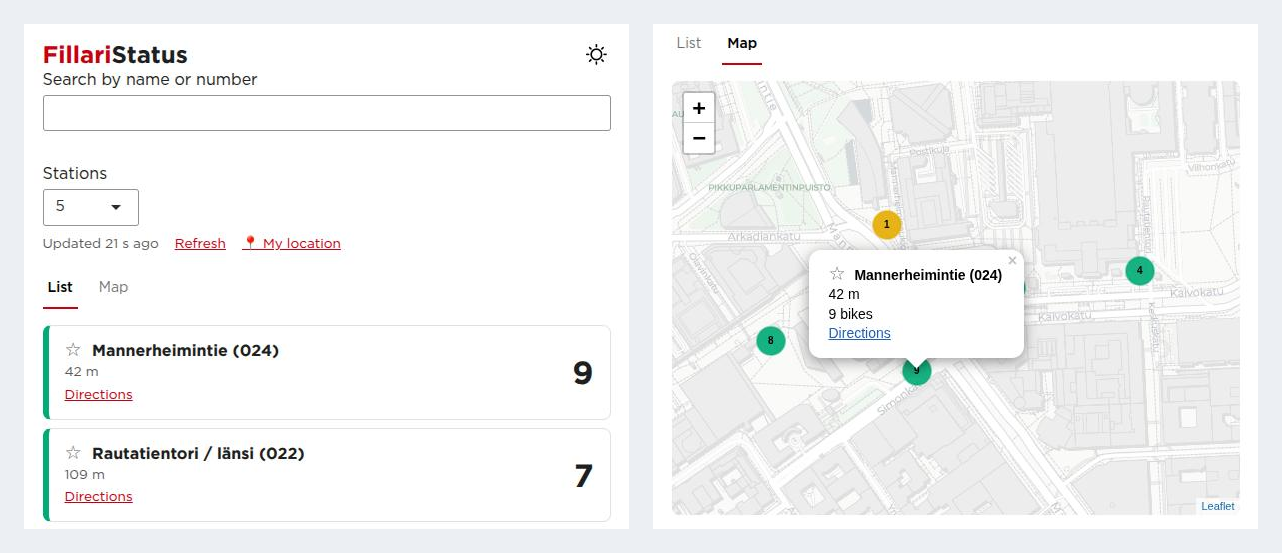
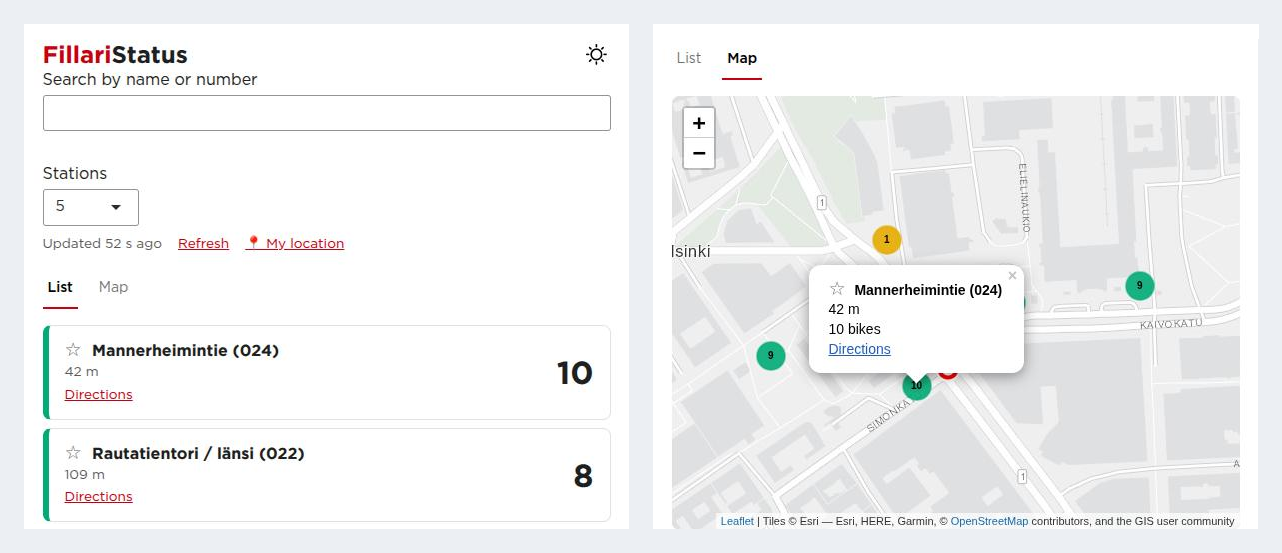
Docs and screenshots: Esri tiles, no Carto key
README, DEPLOY.md (new "Map tiles" section: attribution, the zoom-16 cap,
no SLA, how to switch provider, why Carto was dropped), CLAUDE.md, the plan
and the project page now describe the keyless Esri basemap. Screenshots are
retaken with the new tiles at the Rautatientori position (the location
marker was verified to be exactly 60.1699, 24.9384) and the raw captures
deleted.

diff --git a/docs/index.html b/docs/index.html
@@ -429,7 +429,7 @@
     <section class="privacy">
         <div class="container">
             <h2>Data and Privacy</h2>
-            <p>Station data &copy; <a href="https://www.hsl.fi/">HSL</a> / <a href="https://digitransit.fi/">Digitransit</a>, licensed <a href="https://creativecommons.org/licenses/by/4.0/">CC BY 4.0</a>. Map tiles &copy; <a href="https://www.openstreetmap.org/copyright">OpenStreetMap</a> contributors &copy; <a href="https://carto.com/attributions">CARTO</a>.</p>
+            <p>Station data &copy; <a href="https://www.hsl.fi/">HSL</a> / <a href="https://digitransit.fi/">Digitransit</a>, licensed <a href="https://creativecommons.org/licenses/by/4.0/">CC BY 4.0</a>. Map tiles &copy; Esri &mdash; Esri, HERE, Garmin, &copy; <a href="https://www.openstreetmap.org/copyright">OpenStreetMap</a> contributors, and the GIS user community.</p>
             <p>There are no accounts and no database. Your location is used only to find nearby stations and is not stored. Favourites stay in your own browser.</p>
         </div>
     </section>

diff --git a/fillaristatus-plan.md b/fillaristatus-plan.md
@@ -22,15 +22,15 @@
 | 6 | Off-season and error states | Done | `72d9c41` |
 | 7 | Docker + Cloud Run deploy | **Done, live** | `d0358e7`, `ca8c2d9`, `40051f3` |
 | 8 | README, CLAUDE.md, screenshot, favicon, MIT licence, redeploy | **Done, live** | `576c627`, `ee53e68` |
-| 9 | Post-launch: GitHub Actions auto-deploy, youcanbeapirate theme, security headers, GitHub hygiene, project page | **Done, live** | `b3adaac`, `2d71b9f`, `634b5cf`, `99f3442`, `0792569`, `092838d` |
+| 9 | Post-launch: GitHub Actions auto-deploy, youcanbeapirate theme, security headers, GitHub hygiene, project page, keyless Esri map tiles (and the missing tile attribution fixed) | **Done, live** | `b3adaac`, `2d71b9f`, `634b5cf`, `99f3442`, `0792569`, `092838d` |
 
 **Deployed:** revision `fillaristatus-app-00005-qp5` serves 100 % of traffic. Deploys are automatic now: a push to `main` that touches `app/**` or the build files runs the GitHub Actions workflow (build, deploy, smoke test).
 
 **Also done:** the FillariStatus card was added to the main site's featured apps (`AnttiRask.github.io`, commit `ad3c4f4`; View App / View Project / View Source all verified, 200).
 
-**Remaining (user):** restrict the Carto tile key to the FillariStatus domain(s) in Carto's dashboard. Everything else open is optional (§13).
+**Remaining (user):** nothing required. The map tiles switched to Esri's keyless World Light/Dark Gray (§6, §8), so there is no Carto key to restrict (the user lost dashboard access after the trial). BiblioStatus still uses the Carto key, which has the same problem; the same switch would fix it. Everything else open is optional (§13).
 
-**Never verified (be honest about these):** phone browsers and Safari/Firefox (only desktop Chrome was driven; the user once reported an intermittent empty map box in "another desktop browser"), behaviour at a real season change (stations are live now), Cloud Run cold-start duration, and Carto's 503 behaviour under bursts.
+**Never verified (be honest about these):** phone browsers and Safari/Firefox (only desktop Chrome was driven; the user once reported an intermittent empty map box in "another desktop browser"), behaviour at a real season change (stations are live now), Cloud Run cold-start duration, and Esri's availability and current terms for the keyless tiles (no SLA; I could not read the terms from here).
 
 ## 1. Why
 
@@ -46,7 +46,7 @@
 - **Bikes only.** Free docks are fetched and parsed (`docks`) but not shown: a bike can be returned to a full station, so the count of bikes is the question.
 - **Search** by name or station number, always available. A non-blank search replaces the nearest list (still sorted by distance from the user, still capped by N); clearing it restores the list. While searching, the map fits the results only, so a far-away match doesn't zoom out to include the user.
 - **Favourites** (per browser, `localStorage`): a favourite inside the N nearest takes one of the N slots; favourites outside it are added on top. Pinned first. Star on list cards and in map popups.
-- **Map tab** (leaflet, Carto tiles): markers coloured by status with the bike count printed on them, popups mirroring the card (with the favourite star), a ring-and-dot "you are here" marker, drawn through `leafletProxy` so pan/zoom survive the refresh. Shows "Loading map…" until drawn.
+- **Map tab** (leaflet, Esri World Light/Dark Gray tiles with a labels layer, no API key): markers coloured by status with the bike count printed on them, popups mirroring the card (with the favourite star), a ring-and-dot "you are here" marker, drawn through `leafletProxy` so pan/zoom survive the refresh. Shows "Loading map…" until drawn.
 - **Auto-refresh** every 60 s plus "Updated 6 min ago"; manual Refresh button (rate-limited).
 - **Light by default** with a dark mode toggle (bslib; it used to follow the OS setting), mobile-first single column, youcanbeapirate brand colours and Gotham font (§6).
 - **States:** off-season ("City bike season is over…", not an error), failed refresh with older data (keeps showing it, warns how old), failed first load (plain message, never raw error text), location denied (notice + search), empty search.
@@ -112,7 +112,7 @@ Browser ──(location, favourites, search, N)──▶ Shiny server (Cloud Run
 - **Never throws:** `fetch_stations_safe()` returns `list(data, stale, error, fetched_at, attempted_at)`. On error it falls back to the last good data (`stale = TRUE`), or `data = NULL` if there never was any. `fetched_at` = last *successful* fetch, `attempted_at` = last *try*; the Refresh rate limit uses `attempted_at` so clicks during an outage don't each fire a slow failing request.
 - **State machine:** `stations_state()` → `ok` / `off_season` (0 rows, no error: not an error) / `stale` / `error`.
 - **Privacy by construction:** favourites live in the browser (`localStorage` ↔ Shiny input `favourites`, try/catch-guarded); the location goes to the server for the distance maths, is held in memory per session, and is never stored or logged (verified by grepping the code). The only server-wide state is the public station cache.
-- **API key stays server-side.** (Carto's tile key does reach the browser inside tile URLs; see §12.)
+- **API key stays server-side.** The map tiles are keyless (Esri), so no key reaches the browser. (Until 2026-10-17 a Carto tile key was visible in the tile URLs; see §6.)
 - **Cold starts** lose the in-memory cache; the first request just fetches fresh data.
 - **Entry point:** `app/run.R` sets the working directory to `app/`, builds the app with `shinyAppDir()` and wraps its page handler with the security headers (§6). Pushes that touch `app/**` or the build files redeploy automatically (§8).
 - Turso is not used.
@@ -131,14 +131,14 @@ FillariStatus/
 ├── deploy.sh                  # Cloud Run deploy (confirm prompt, DRY_RUN=1)
 ├── .Rprofile  renv.lock  renv/ # renv (R 4.6.1)
 ├── .gitignore                 # ignores .Renviron, renv/library, test artifacts, the scheduler lock file
-├── .Renviron                  # git-ignored: DIGITRANSIT_SUBSCRIPTION_KEY, CARTO_API_KEY
+├── .Renviron                  # git-ignored: DIGITRANSIT_SUBSCRIPTION_KEY
 ├── .github/
 │   ├── workflows/deploy_shiny_app.yml  # auto-deploy to Cloud Run on pushes touching app/build files; smoke test
 │   └── dependabot.yml                  # weekly updates for the pinned actions and the Docker base image
 ├── docs/                      # the project page (GitHub Pages: main, /docs): index.html, screenshot.png, favicon.png
 ├── app/
 │   ├── run.R                  # entry point: sets the working dir, builds the app, wraps the page handler with the security headers
-│   ├── global.R               # libraries, sources www/*.R, carto_api_key
+│   ├── global.R               # libraries, sources www/*.R
 │   ├── ui.R                   # theme, tabs, controls, footer; CSS custom properties; asset() cache-busting
 │   ├── server.R               # reactive logic, list rendering, map via leafletProxy
 │   └── www/
@@ -172,6 +172,13 @@ FillariStatus/
 - Map: base map in `renderLeaflet`; markers via `leafletProxy` once `input$map_bounds` shows the map exists (see §12). The view re-fits only when the station set or the location changes; popups pan to stay ≥60 px from the left edge (clear of the zoom buttons).
 - Marker label (bike count) is black text (≥5.4:1 on every status fill). The user marker is an SVG ring-and-dot icon so it doesn't rely on colour.
 
+### Basemap (Esri, keyless)
+- **Why:** the Carto key could no longer be restricted or rotated (the free trial ended and the user lost dashboard access) and was visible in the tile URLs of public sites; if Carto ever ended the grace period both apps' maps would break at once.
+- **What:** Esri's World Light Gray and World Dark Gray canvases, each a base layer plus a labels ("Reference") layer on top. They look almost like Carto's light and dark styles, need no key or account, and swap with the dark-mode toggle. Chosen over OpenStreetMap standard (busy, no dark version, usage policy) and over a keyed provider (another account to maintain); Stadia returned tiles without a key but only because they don't enforce their terms yet.
+- **Limits:** real tiles stop at zoom 16 (17+ is a grey placeholder), so requests are capped at 16 and scaled up; the automatic fit already stops at 16. No SLA, and Esri's current terms could not be verified from here. Attribution ("Tiles (c) Esri ...") is shown on the map.
+- **Code:** `map_tiles_host`, `map_tile_max_native_zoom`, `map_max_zoom`, `map_attribution` in `variables.R`; `map_tile_urls()` and `add_basemap()` in `functions.R` (tested, including the attribution); CSP `img-src` in `security.R`.
+- **Verified in Chrome:** both layers load from the one host, nothing is requested above zoom 16 even at map zoom 18, the attribution shows, the dark toggle swaps both layers, no CSP violations.
+
 ### Theme (youcanbeapirate brand)
 - Brand colours live in `variables.R` (`brand_colours`: red `#C1272D`, lighter red `#F26B70` for dark mode, grey, dark background `#191414`), the font is Gotham from `fonts.cdnfonts.com` (as in the BiblioStatus app; a system-font stack is the fallback). The app is **light by default** (`input_dark_mode(mode = "light")`); it used to follow the OS setting.
 - Brand red is 5.8:1 on white (fine for text) but only 3.1:1 on `#191414`, so dark mode links use `#F26B70` (6.2:1). `ui.R` exposes one `--fs-accent` custom property per theme for the title's first part ("Fillari", red, like the project pages' `<span>Biblio</span>Status`) and the active tab underline. Brand red is for chrome only; status colours are unchanged (the "empty" status is its own red-orange).
@@ -179,7 +186,7 @@ FillariStatus/
 
 ### Security headers
 - `app/www/security.R` defines the headers and `with_security_headers()`; `app/run.R` wraps the app's `httpHandler` with it (Shiny's `shiny.http.response.filter` option was tested and does nothing; wrapping `httpHandler` was tested and works, and handles NULL / plain / promised responses). Static assets don't get the headers (they don't need them).
-- Enforced: `X-Frame-Options: DENY`, CSP `frame-ancestors 'none'; base-uri 'self'; object-src 'none'; form-action 'self'`, `Referrer-Policy`, `Permissions-Policy` (geolocation for self only), HSTS (1 year, no subdomains, no preload), `nosniff`. Report-only: a full CSP allowing exactly the app, `*.basemaps.cartocdn.com` and `fonts.cdnfonts.com` (with `'unsafe-inline'`/`'unsafe-eval'` for Shiny and htmlwidgets). Verified in Chrome: no violations during real use; every host the page loaded from is on the list.
+- Enforced: `X-Frame-Options: DENY`, CSP `frame-ancestors 'none'; base-uri 'self'; object-src 'none'; form-action 'self'`, `Referrer-Policy`, `Permissions-Policy` (geolocation for self only), HSTS (1 year, no subdomains, no preload), `nosniff`. Report-only: a full CSP allowing exactly the app, `services.arcgisonline.com` (tiles) and `fonts.cdnfonts.com` (with `'unsafe-inline'`/`'unsafe-eval'` for Shiny and htmlwidgets). Verified in Chrome: no violations during real use; every host the page loaded from is on the list.
 - Not exercised: the effect of enforcing the full CSP. See DEPLOY.md for how to tighten it.
 
 ### Accessibility findings (measured, not assumed)
@@ -199,7 +206,7 @@ FillariStatus/
 
 - **GitHub Pages was considered and rejected.** Pages only hosts static files; this is an R Shiny app that needs a server process. A JS rewrite would expose the Digitransit key in the page, lose the shared cache, and discard the built and tested app.
 - **Where:** Google Cloud Run, project `bibliostatus-app` (shared with BiblioStatus, as decided), region `europe-north1`, service `fillaristatus-app`, public (`--allow-unauthenticated`), 1 GiB, `--max-instances 3`, `--concurrency 20`, `--session-affinity`, timeout 3600 s. Revision `fillaristatus-app-00001-kcc` served 100 % of traffic after the first deploy.
-- **Secrets:** Secret Manager `digitransit-subscription-key` (created by `deploy.sh` from `.Renviron`) and the existing `carto-api-key`, both exposed as env vars through `--set-secrets`; the runtime service account `884476669514-compute@developer.gserviceaccount.com` has `secretAccessor`. A `github-deploy` service account already exists in the project (BiblioStatus uses it for Actions).
+- **Secrets:** Secret Manager `digitransit-subscription-key` (created by `deploy.sh` from `.Renviron`) exposed as an env var through `--set-secrets` (which replaces all existing secrets, so a deploy also drops the old `CARTO_API_KEY` binding; the `carto-api-key` secret itself stays because BiblioStatus uses it); the runtime service account `884476669514-compute@developer.gserviceaccount.com` has `secretAccessor`. A `github-deploy` service account already exists in the project (BiblioStatus uses it for Actions).
 - **Image:** `rocker/r-ver:4.6.1` (Ubuntu 24.04), system libraries from Posit Package Manager's sysreqs API, `renv::restore()` from P3M Linux binaries, renv cache **disabled** at build, non-root user `fillari`, ~890 MB compressed in the registry (`docker image ls` shows ~3 GB unpacked). Built by Cloud Build (`gcloud builds submit`), ~7 min.
 - **Deploy:** automatically through GitHub Actions on pushes to `main` that touch `app/**` or the build files (`.github/workflows/deploy_shiny_app.yml`, secrets `GCP_SA_KEY` + `GCP_PROJECT_ID`, pinned actions, serialised runs, smoke test; the first push-triggered run and a manual run both succeeded), or by hand with `./deploy.sh` (asks for confirmation; `DRY_RUN=1` prints the plan). Locally: `docker compose up --build` → http://localhost:8083. The workflow's service account `github-deploy` is shared with BiblioStatus and has broad roles; the workflow uses a second key for it (id starts `59985cf8`); the old key must not be deleted. Workload Identity Federation (keyless) would be the more secure setup.
 - **Custom domain: live.** `fillaristatus.youcanbeapirate.com` is mapped to the service (`gcloud beta run domain-mappings`), DNS at NS1 has `CNAME fillaristatus -> ghs.googlehosted.com.`. The first certificate attempt ran before the record was visible and Google backed off; deleting and recreating the mapping with DNS in place (09:21 UTC) got a certificate in ~17 minutes (issuer Google Trust Services, valid to 2027-01-15, auto-renewed). For ~2 minutes after the mapping reported Ready some TLS handshakes still failed, then 10 consecutive connections succeeded. Verified on the domain: HTTP 200, trusted certificate, all security headers, same app version as the `run.app` address, http redirects to https, map with real tiles, favourites, no Shiny errors, and no CSP violations during real use (the only ones seen came from my own `fetch()` test probe, which `connect-src` covers).
@@ -209,8 +216,8 @@ FillariStatus/
 - **Cost:** within the free tier expected; no budget alert was set up. `--min-instances 1` would remove cold starts at a small recurring cost (not applied; the user decides).
 
 ## 9. Later ideas (v2+)
-- **Tile robustness:** retry failed tiles. On one live load Carto answered 8 of 9 starting-zoom tiles with HTTP 503 (all fine moments later). Also avoid the throwaway zoom-13 starting view (request tiles only for the fitted view).
-- Restrict the Carto key to the FillariStatus domain(s) in Carto's dashboard (the key is visible in tile URLs).
+- **Tile robustness:** Esri has no SLA. Consider retrying failed tiles and falling back to another provider (e.g. OpenStreetMap) on tile errors. (With Carto, one live load got 8 of 9 starting-zoom tiles refused with HTTP 503, all fine moments later.) Also avoid the throwaway zoom-13 starting view (request tiles only for the fitted view).
+- Revisit the tile provider if Esri's terms or availability change (alternatives in DEPLOY.md > Map tiles). Apply the same keyless switch to BiblioStatus, which still uses the unrestrictable Carto key.
 - **History & patterns:** snapshot station status every 10–15 min into Turso, show "typically empty by 08:15 on weekdays". GitHub Actions cron is too unreliable at that granularity; use Cloud Scheduler → a tiny Cloud Run job.
 - Walking time via Digitransit routing instead of straight-line distance.
 - PWA manifest (install to home screen). The favicon (PNG + ICO bicycle on the app blue) already exists.
@@ -249,6 +256,7 @@ FillariStatus/
 | Static hosting on GitHub Pages | Rejected (§8) |
 | Redeploy timing | Batched with Milestone 8 (done: revision 2) |
 | Licence | MIT, copyright 2026 Antti Rask (same as BiblioStatus apart from the year) |
+| Map tiles | Esri World Light/Dark Gray + labels, keyless (the Carto key could not be restricted or rotated any more) |
 | Theme | youcanbeapirate brand red, Gotham (as the BiblioStatus app), **light by default**, lighter red links in dark mode, status colours unchanged |
 | Security headers | Wrap the page handler (enforced framing/referrer/permissions/HSTS + report-only CSP) |
 | GitHub hygiene | Secret scanning, push protection, Dependabot, protected `main`, SHA-pinned actions |
@@ -265,7 +273,7 @@ FillariStatus/
 - When something fails: read the full error, find the root cause, explain it, propose 2–3 ranked fixes, implement the top one; don't retry the same thing.
 
 ### Gotchas that cost time
-- **Carto returns HTTP 200 with a watermark tile ("API KEY REQUIRED") when the key is missing.** Check tile *size/content*, not status (real ≈ 13–23 KB, watermark ≈ 2 KB). `CARTO_API_KEY` lives in `.Renviron` locally and in Secret Manager in the cloud.
+- **Tile providers answer HTTP 200 with placeholders.** Carto without a key: a ~2 KB "API KEY REQUIRED" watermark; Esri above zoom 16: an identical grey "Map data not yet available" tile (z17 and z18 are byte-identical). Check tile content/size, never just the status.
 - **Leaflet drops `leafletProxy` messages for a map that doesn't exist yet.** The map is in a hidden tab, so Shiny doesn't render it until first shown; drawing waits for `input$map_bounds`.
 - **Leaflet fires `layeradd` before popups are bound**, and stops click propagation inside popups: `favourites.js` listens in the capture phase and re-opens the popup after the settle.
 - **Leaflet's own z-indexes (controls 1000) beat page UI** unless the map container has `isolation: isolate`.
@@ -276,7 +284,8 @@ FillariStatus/
 - **Same for `deploy.sh`:** the real exit code is the log's last line, not the background task's.
 - **gcloud prompts:** run read-only gcloud commands with stdin closed (`</dev/null`) so a "enable this API?" prompt can't be auto-confirmed.
 - Chrome-extension quirks: refs go stale; a scroll wheel over the map zooms the map; bslib's dark-mode toggle needs a *real* click; don't call `location.reload()` inside a script.
-- Carto key is exposed in tile URLs by design (as in BiblioStatus); restrict it by domain in Carto's dashboard once there is a stable domain.
+- **`addTiles()` silently drops an attribution passed through `tileOptions()`** (it runs `options$attribution <- attribution`). The tile credit was therefore missing from the map from the start; found while switching providers and fixed (`add_basemap()` + a test). Esri's tile URLs are `{z}/{y}/{x}`.
+- **A key that can't be restricted or rotated is a liability.** The Carto trial ended, the dashboard became unreachable, and its key was visible in the tile URLs of public sites: the app switched to keyless Esri tiles.
 - **Shiny has no response-header hook** (`shiny.http.response.filter` does nothing): wrap `app$httpHandler` (`app/www/security.R`, `app/run.R`).
 - **The Chrome console tool does not capture CSP report-only violations.** Use a `securitypolicyviolation` listener in the page and prove it catches a deliberate probe first; also list the hosts from `performance.getEntriesByType('resource')`.
 - **Geolocation permission can silently differ per loopback origin** (127.0.0.1 vs 127.0.0.2). Screenshots for the repo must force the fallback position with `Shiny.setInputValue('user_location', ...)`, be checked (first station Mannerheimintie, 42 m), and the raw captures deleted. One capture showed the user's real neighbourhood and was discarded.
@@ -290,7 +299,7 @@ FillariStatus/
 The app, the project page, automatic deploys and the security work are done and live. What remains:
 1. ~~Custom domain~~ done (live, see §8). The README and the project page already point at it.
 2. ~~Main-site card~~ done (live on youcanbeapirate.com).
-3. **User:** restrict the Carto key to `fillaristatus.youcanbeapirate.com` (and the run.app address if wanted) in Carto's dashboard.
+3. ~~Restrict the Carto key~~ not needed any more: FillariStatus no longer uses it (see §6). BiblioStatus still does.
 4. Optional hardening: Workload Identity Federation with a dedicated least-privilege service account (then delete the new key `59985cf8…`, never the old BiblioStatus one); tighten the report-only CSP into an enforced one; a Cloud Billing budget alert; image/package vulnerability scanning; a test job in the workflow that gates deploys.
-5. v2 candidates from §9: tile retry for Carto 503s, history/patterns, walking time, PWA, Finnish UI; optionally `--min-instances 1`.
+5. v2 candidates from §9: tile retry/fallback, history/patterns, walking time, PWA, Finnish UI; optionally `--min-instances 1`.
 6. Still unverified: phones and non-Chrome browsers, the pinned-light default on a machine set to dark mode, a real season change, and whether the intermittent empty map box (reported once, in a non-Chrome desktop browser) still occurs now that a placeholder is shown.

diff --git a/DEPLOY.md b/DEPLOY.md
@@ -13,13 +13,11 @@ A custom domain can be mapped later (see below).
 | Variable | Where it lives | Used for |
 |---|---|---|
 | `DIGITRANSIT_SUBSCRIPTION_KEY` | Secret Manager `digitransit-subscription-key` | HSL / Digitransit station data. Server-side only, never sent to the browser. |
-| `CARTO_API_KEY` | Secret Manager `carto-api-key` (shared with BiblioStatus) | Map tiles. Without it Carto returns a watermarked "API KEY REQUIRED" tile (with HTTP 200). |
 
-Locally both go in a git-ignored `.Renviron` in the project root:
+Locally it goes in a git-ignored `.Renviron` in the project root:
 
 ```
 DIGITRANSIT_SUBSCRIPTION_KEY=...
-CARTO_API_KEY=...
 ```
 
 Never commit this file. The Docker build excludes it (`.dockerignore` is an
@@ -57,7 +55,7 @@ The script:
 1. checks you are logged in and the project exists
 2. enables the Cloud Build, Cloud Run, Artifact Registry and Secret Manager APIs
 3. creates the `digitransit-subscription-key` secret from your `.Renviron` if it
-   does not exist, and lets the Cloud Run runtime service account read both secrets
+   does not exist, and lets the Cloud Run runtime service account read it
 4. builds the image with Cloud Build and deploys it with
    `--allow-unauthenticated`, `--session-affinity` (Shiny needs a session to
    stay on one instance), `--max-instances 3` and `--concurrency 20`
@@ -93,7 +91,7 @@ The page response carries `X-Frame-Options: DENY` plus an enforced CSP with `fra
 `Content-Security-Policy-Report-Only`. They live in `app/www/security.R` and are applied in `app/run.R`
 by wrapping the app's page handler (Shiny's `shiny.http.response.filter` option does nothing).
 
-The report-only policy allows exactly the hosts the app uses: itself, `*.basemaps.cartocdn.com` (tiles) and
+The report-only policy allows exactly the hosts the app uses: itself, `services.arcgisonline.com` (map tiles) and
 `fonts.cdnfonts.com` (Gotham). Browsers don't enforce it, they only report violations. To see them reliably,
 add a `securitypolicyviolation` event listener in the page (the Chrome console tool does not show report-only
 violations). To tighten: once no violations show up during real use, rename the header to
@@ -140,8 +138,29 @@ from the recreation to a working certificate. After the mapping reports Ready, c
 two while Google's front ends pick the certificate up (some handshakes fail, then it is stable), so require several
 consecutive successful requests before calling it live.
 
-Once the domain serves HTTPS, restrict the Carto tile key to the domain in Carto's dashboard (the key is
-visible in tile URLs on any public site).
+## Map tiles
+
+The basemap is Esri's **World Light Gray** and **World Dark Gray** canvases (each a base layer plus a labels
+"Reference" layer on top, swapped by the dark-mode toggle). They need **no API key and no account**, so there is
+nothing to leak or expire. Details that matter:
+
+- **Attribution is required** and shown on the map ("Tiles (c) Esri, Esri, HERE, Garmin, (c) OpenStreetMap
+  contributors, and the GIS user community"). It must be passed as `addTiles()`'s own `attribution` argument;
+  `addTiles()` overwrites `options$attribution` with it, so one passed through `tileOptions()` is silently dropped
+  (this happened with the earlier Carto layer too). `add_basemap()` in `app/www/functions.R` does it right and a
+  test guards it.
+- **Tiles are real only up to zoom 16.** From 17 on Esri serves a grey "Map data not yet available" tile, so
+  requests are capped at 16 (`map_tile_max_native_zoom`) and the browser scales them up for closer views.
+- Esri's URLs are ordered `{z}/{y}/{x}`.
+- **No guarantees:** these keyless services have no SLA, and I could not verify Esri's current terms of use from
+  here. For a low-traffic personal app the risk is small, but if Esri ever changes the terms, switch the tile
+  source: change `map_tiles_host` / `map_tile_urls()` / `add_basemap()` and the CSP host in
+  `app/www/security.R`. Alternatives: OpenStreetMap's standard tiles (keyless but busy, no dark version and a
+  usage policy that discourages anything but light use), or a provider with a free tier and domain-restricted key
+  (MapTiler, Stadia Maps).
+- **History:** the app used Carto's tiles with an API key until 2026-10-17. The Carto trial ended, the dashboard
+  became unreachable, and the key (visible in the tile URLs of public sites) could neither be restricted to a
+  domain nor rotated. The `carto-api-key` secret still exists in Secret Manager because BiblioStatus uses it.
 
 ## Cost
 

diff --git a/CLAUDE.md b/CLAUDE.md
@@ -40,8 +40,7 @@ Stop a local server **by port** (`ss -ltnp | grep :8083`), never with `pkill -f 
 ## Environment Variables
 
 - `DIGITRANSIT_SUBSCRIPTION_KEY` - Digitransit API key (server-side only).
-- `CARTO_API_KEY` - map tile key. Without it Carto answers HTTP 200 with a watermark tile ("API KEY REQUIRED"); check tile size (real ≈ 13-23 KB, watermark ≈ 2 KB), not the status code.
-- Locally both live in the git-ignored `.Renviron`. In Cloud Run they come from Secret Manager (`digitransit-subscription-key`, `carto-api-key`). Never commit or print their values.
+- That is the only secret. The map tiles (Esri World Light/Dark Gray) are keyless. Locally it lives in the git-ignored `.Renviron`; in Cloud Run it comes from Secret Manager (`digitransit-subscription-key`). Never commit or print its value. (`CARTO_API_KEY` / `carto-api-key` was used until 2026-10-17 and is still in Secret Manager only because BiblioStatus uses it.)
 
 ## Deployment
 
@@ -61,6 +60,7 @@ Google Cloud Run, project `bibliostatus-app` (shared with BiblioStatus), region 
 - `testServer()` doesn't step `debounce()` timers for a value already read; read search-dependent values for the first time *after* the input change.
 - Docker: system libraries come from Posit Package Manager's sysreqs API; renv's cache must be disabled at build (`RENV_CONFIG_CACHE_ENABLED=FALSE`), otherwise packages are symlinks into root's private cache and the non-root runtime user can't load them. A build piped through `tee`/`tail` reports the pipe's exit code: capture `docker build`'s own and check the image exists. Same for `deploy.sh`.
 - Don't darken the amber "low" colour for contrast: it becomes indistinguishable from "empty" for deuteranopia (see plan §6). The bike count is on every card and marker.
+- **Map tiles (Esri):** attribution must be `addTiles()`'s own `attribution` argument (it overwrites `options$attribution`, so one inside `tileOptions()` is silently dropped; `add_basemap()` does it right and a test guards it). Real tiles stop at zoom 16 (17+ is a grey "Map data not yet available" tile), so requests are capped there. Esri URLs are `{z}/{y}/{x}`. Tile providers can answer HTTP 200 with a placeholder (Carto's missing-key watermark, Esri above zoom 16): check tile content/size, not the status code. No SLA: if the provider changes, see DEPLOY.md > Map tiles.
 - Test in the browser, not only with unit tests: most bugs above were found by driving Chrome.
 - The Chrome console tool does **not** show CSP report-only violations; add a `securitypolicyviolation` listener in the page (and prove it catches a deliberate probe) before concluding "no violations".
 - Geolocation permission can silently differ per loopback origin (127.0.0.1 vs 127.0.0.2). For screenshots that go into the repo, force the fallback position with `Shiny.setInputValue('user_location', {lat: 60.1699, lon: 24.9384, accuracy: 20}, {priority: 'event'})`, check the first station is Mannerheimintie at 42 m, and delete the raw captures afterwards.

diff --git a/README.md b/README.md
@@ -63,11 +63,10 @@ fillaristatus-plan.md # project plan and history
 
 ## 💻 Run Locally
 
-You need a free [Digitransit API key](https://portal-api.digitransit.fi/) and a [Carto](https://carto.com/) key for the map tiles. Put them in a git-ignored `.Renviron` in the project root:
+You need a free [Digitransit API key](https://portal-api.digitransit.fi/). Put it in a git-ignored `.Renviron` in the project root (the map tiles need no key):
 
 ```
 DIGITRANSIT_SUBSCRIPTION_KEY=...
-CARTO_API_KEY=...
 ```
 
 Then either:
@@ -99,7 +98,7 @@ The app runs on Google Cloud Run. See [DEPLOY.md](DEPLOY.md) for the secrets, `d
 
 ## 📊 Data
 
-Station data © [HSL](https://www.hsl.fi/) / [Digitransit](https://digitransit.fi/), licensed [CC BY 4.0](https://creativecommons.org/licenses/by/4.0/). Map tiles © [OpenStreetMap](https://www.openstreetmap.org/copyright) contributors © [CARTO](https://carto.com/attributions).
+Station data © [HSL](https://www.hsl.fi/) / [Digitransit](https://digitransit.fi/), licensed [CC BY 4.0](https://creativecommons.org/licenses/by/4.0/). Map tiles © Esri — Esri, HERE, Garmin, © [OpenStreetMap](https://www.openstreetmap.org/copyright) contributors, and the GIS user community.
 
 ## 📄 License
 
